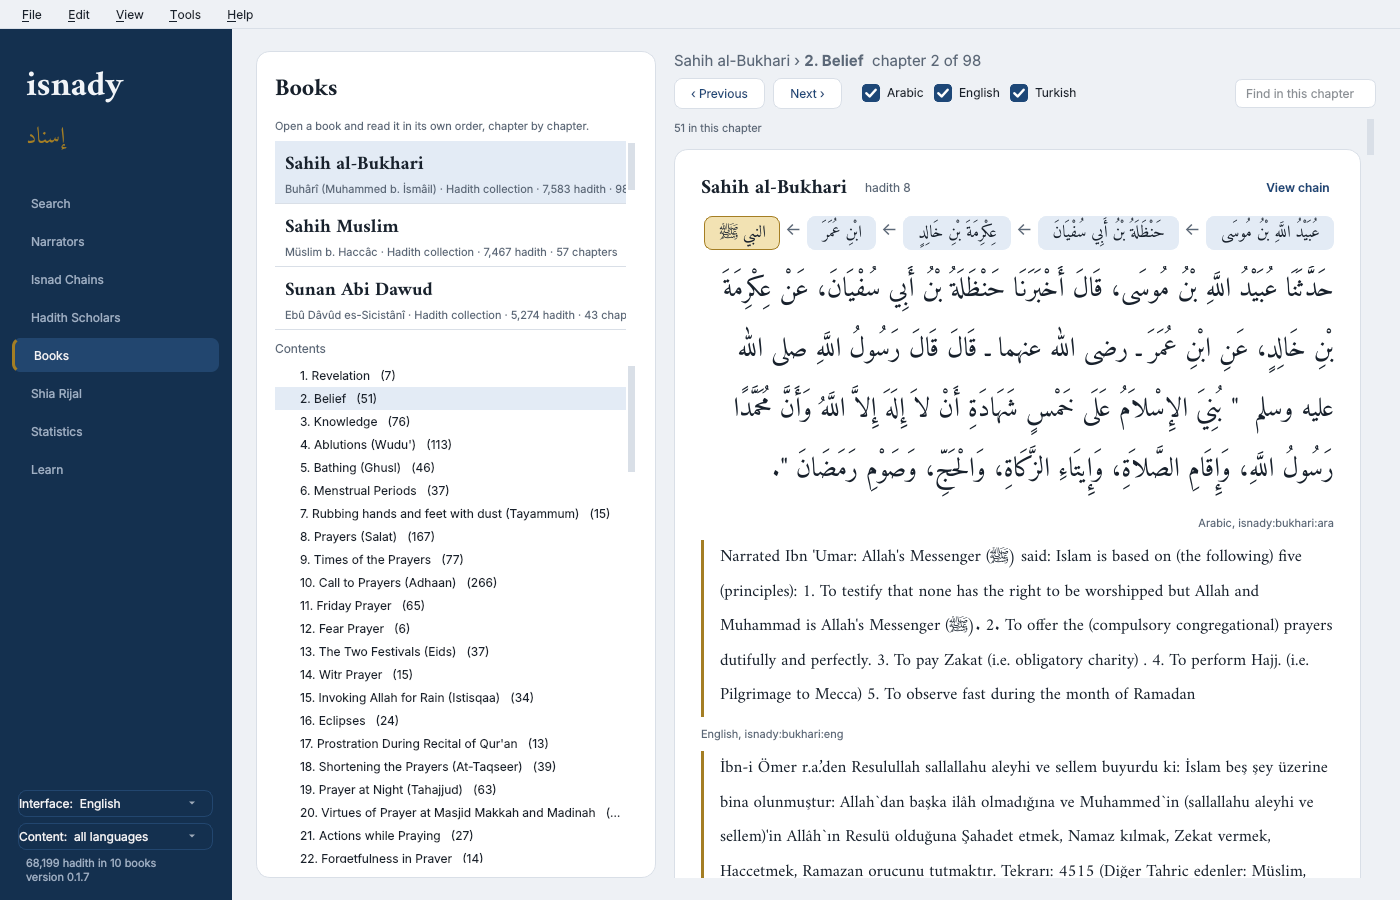
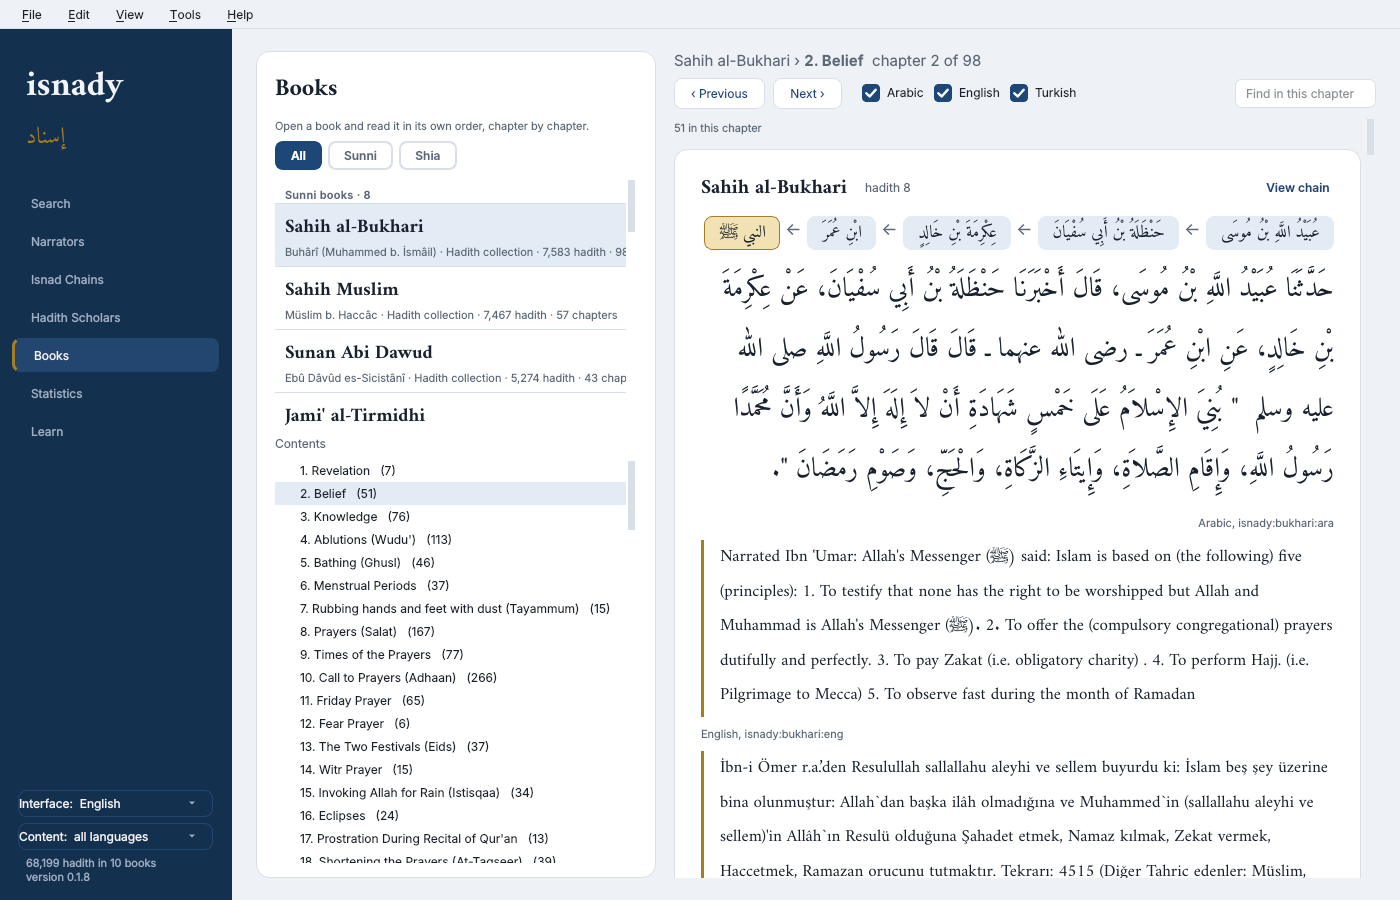
Books: the Sunni and the Shia books under their own headings, with All / Sunni / Shia
The shelf showed every book in one short list (250 px, about four books) with the Shia books last, so they sat below the fold and the shelf looked Sunni only.

core/works.list_works gives each book its tradition (a hadith collection from collections.tradition, a rijal work from the tradition of its narrators) and orders the shelf Sunni first (hadith collections in reading order, then rijal works), then Shia in the same way.

gui/books_page.py: All / Sunni / Shia above the shelf (remembered as reader.shelf), headings 'Sunni books · N' and 'Shia books · N' that cannot be chosen (the Shia one in gold), a gold Shia tag on every Shia book, a taller list (250-340 px); opening a book of the other tradition from elsewhere turns the shelf back to All.

README Books paragraph and books.png renewed; CHANGELOG [Unreleased].

Changed region(s): [[0.1843, 0.1556, 0.4607, 0.9644], [0.0307, 0.4356, 0.0614, 0.4978]]

diff --git a/src/isnady/gui/books_page.py b/src/isnady/gui/books_page.py
@@ -8,6 +8,7 @@ from PySide6.QtCore import Qt, QTimer, Signal
 from PySide6.QtWidgets import (
     QCheckBox,
     QFrame,
+    QButtonGroup,
     QHBoxLayout,
     QLabel,
     QLineEdit,
@@ -77,9 +78,27 @@ class BooksPage(QWidget):
         title.setFont(theme.reading_font(18, bold=True))
         lbox.addWidget(title)
         lbox.addWidget(_label("Open a book and read it in its own order, chapter by chapter.", "Caption"))
+        # Sunni and Shia on one shelf, each under its own heading; the switch shows one of them alone (SH1)
+        self._shelf_tradition: str | None = config.state_get("reader.shelf") or None
+        self._shelf_buttons = QButtonGroup(self)
+        seg = QHBoxLayout()
+        seg.setSpacing(6)
+        for key, text in ((None, "All"), ("sunni", "Sunni"), ("shia", "Shia")):
+            b = QPushButton(text)
+            b.setObjectName("Segment")
+            b.setCheckable(True)
+            b.setCursor(Qt.CursorShape.PointingHandCursor)
+            b.setProperty("tradition", key)
+            b.setChecked(key == self._shelf_tradition)
+            self._shelf_buttons.addButton(b)
+            seg.addWidget(b)
+        seg.addStretch(1)
+        self._shelf_buttons.buttonClicked.connect(lambda b: self.set_shelf(b.property("tradition")))
+        lbox.addLayout(seg)
         self.works = QListWidget()
         self.works.setObjectName("NarratorList")
-        self.works.setMaximumHeight(250)
+        self.works.setMinimumHeight(250)
+        self.works.setMaximumHeight(340)
         self.works.setHorizontalScrollBarPolicy(Qt.ScrollBarPolicy.ScrollBarAlwaysOff)
         self.works.currentItemChanged.connect(lambda item, _p: item and self.open_work(item.data(Qt.ItemDataRole.UserRole)))
         lbox.addWidget(self.works)
@@ -154,10 +173,25 @@ class BooksPage(QWidget):
         if conn is None:
             return
         core_works.ensure_collection_works(conn)
-        shelf = core_works.list_works(conn)
+        shelf = [w for w in core_works.list_works(conn)
+                 if self._shelf_tradition is None or w["tradition"] == self._shelf_tradition]
         self.works.blockSignals(True)
         self.works.clear()
+        heading = None
         for w in shelf:
+            if w["tradition"] != heading:
+                heading = w["tradition"]
+                head = QListWidgetItem()
+                head.setFlags(Qt.ItemFlag.NoItemFlags)          # a heading, not a book
+                text = {"sunni": "Sunni", "shia": "Shia"}.get(heading, "Other")
+                count = sum(1 for x in shelf if x["tradition"] == heading)
+                label = _label(f"{text} books · {count}", "FilterTitle", wrap=False)
+                label.setContentsMargins(10, 10, 10, 2)
+                if heading == "shia":
+                    label.setStyleSheet(f"color: {theme.current().gold};")
+                head.setSizeHint(label.sizeHint())
+                self.works.addItem(head)
+                self.works.setItemWidget(head, label)
             item = QListWidgetItem()
             item.setData(Qt.ItemDataRole.UserRole, w["key"])
             row = QWidget()
@@ -171,8 +205,10 @@ class BooksPage(QWidget):
             unit = "hadith" if w["kind"] == "hadith" else "entries"
             facts = [core_works.KIND_LABELS.get(w["kind"], "Book"), f"{w['leaves']:,} {unit}", f"{w['chapters']} chapters"]
             if author:
-                facts.insert(0, author.get("tr") or author["name"])
-            box.addWidget(_label(" · ".join(facts), "Caption", wrap=False))
+                facts.insert(0, html.escape(author.get("tr") or author["name"]))
+            if w["tradition"] == "shia":
+                facts.insert(0, f"<span style='color:{theme.current().gold}'><b>Shia</b></span>")
+            box.addWidget(_label(" · ".join(facts), "Caption", wrap=False, rich=True))
             item.setSizeHint(row.sizeHint())
             self.works.addItem(item)
             self.works.setItemWidget(item, row)
@@ -186,7 +222,22 @@ class BooksPage(QWidget):
         keys = [w["key"] for w in shelf]
         self.select_work(wanted if wanted in keys else keys[0])
 
+    def set_shelf(self, tradition: str | None) -> None:
+        """Show every book, or only the Sunni or only the Shia ones."""
+        self._shelf_tradition = tradition
+        for b in self._shelf_buttons.buttons():
+            b.setChecked(b.property("tradition") == tradition)
+        config.state_set("reader.shelf", tradition or "")
+        self.refresh()
+
     def select_work(self, key: str) -> None:
+        w = next((x for x in core_works.list_works(self.conn) if x["key"] == key), None) if self.conn else None
+        if w and self._shelf_tradition and w["tradition"] != self._shelf_tradition:
+            self._shelf_tradition = None                     # a book of the other tradition was asked for
+            for b in self._shelf_buttons.buttons():
+                b.setChecked(b.property("tradition") is None)
+            config.state_set("reader.shelf", "")
+            self.refresh()
         for i in range(self.works.count()):
             if self.works.item(i).data(Qt.ItemDataRole.UserRole) == key:
                 self.works.blockSignals(True)

diff --git a/src/isnady/core/works.py b/src/isnady/core/works.py
@@ -73,19 +73,24 @@ def ensure_collection_works(conn: sqlite3.Connection) -> int:
 
 
 def list_works(conn: sqlite3.Connection) -> list[dict]:
+    """Every book on the shelf, each with its tradition: the Sunni ones first (hadith collections in reading order,
+    then the rijal works), the Shia ones after them in the same way (SH1: one shelf, each tradition apart)."""
     rows = conn.execute(
         """SELECT w.id, w.key, w.kind, w.title, w.title_ar, w.author,
                   (SELECT COUNT(*) FROM work_nodes n WHERE n.work_id = w.id AND n.kind IN ('hadith', 'entry', 'paragraph')),
-                  (SELECT COUNT(*) FROM work_nodes n WHERE n.work_id = w.id AND n.parent_id IS NULL)
-           FROM works w ORDER BY (w.kind != 'hadith'), w.title""").fetchall()
+                  (SELECT COUNT(*) FROM work_nodes n WHERE n.work_id = w.id AND n.parent_id IS NULL),
+                  COALESCE((SELECT c.tradition FROM collections c WHERE c.id = w.collection_id),
+                           (SELECT p.tradition FROM persons p WHERE p.source_id = w.source_id LIMIT 1), 'sunni')
+           FROM works w""").fetchall()
     from isnady.core import books as core_books
 
     order = {b["key"]: i for i, b in enumerate(core_books.all_books(conn, include_inactive=True))}
     off = core_books.disabled()
     works = [{"id": r[0], "key": r[1], "kind": r[2], "title": r[3], "title_ar": r[4], "author": r[5],
-              "leaves": r[6], "chapters": r[7]} for r in rows if not (r[2] == "hadith" and r[1] in off)]
-    # hadith collections in reading order (Sunni, then Shia), the other works after them by title
-    return sorted(works, key=lambda w: (w["kind"] != "hadith", order.get(w["key"], len(order)),
+              "leaves": r[6], "chapters": r[7], "tradition": r[8] if r[8] in ("sunni", "shia") else "other"}
+             for r in rows if not (r[2] == "hadith" and r[1] in off)]
+    rank = {"sunni": 0, "shia": 1, "other": 2}
+    return sorted(works, key=lambda w: (rank[w["tradition"]], w["kind"] != "hadith", order.get(w["key"], len(order)),
                                         core_books.sort_name(w["title"] or "")))
 
 

diff --git a/README.md b/README.md
@@ -257,7 +257,9 @@ its own order. A hadith collection reads chapter by chapter, each hadith with it
 narrators, other narrations, grades) and the languages you choose; Ibn Hajar's *Taqrib* reads
 letter by letter and name by name, each entry with its narrator a click away. Find within a
 chapter, go to the previous or next one, and isnady remembers where you were. From any search
-result, **In its book** opens the hadith where it stands, among the hadith of its chapter.
+result, **In its book** opens the hadith where it stands, among the hadith of its chapter. The shelf
+holds the Sunni and the Shia books together, each under its own heading — *All*, *Sunni* or *Shia*
+at the top shows one of them alone — and every Shia book carries a gold *Shia* tag.
 
 Books are not tied to hadith collections: a work is a tree of any depth (volume, book, chapter,
 section) whose leaves are hadith, narrators' entries or paragraphs — so the commentaries, manuals

diff --git a/js/README.md b/js/README.md
@@ -271,7 +271,9 @@ its own order. A hadith collection reads chapter by chapter, each hadith with it
 narrators, other narrations, grades) and the languages you choose; Ibn Hajar's *Taqrib* reads
 letter by letter and name by name, each entry with its narrator a click away. Find within a
 chapter, go to the previous or next one, and isnady remembers where you were. From any search
-result, **In its book** opens the hadith where it stands, among the hadith of its chapter.
+result, **In its book** opens the hadith where it stands, among the hadith of its chapter. The shelf
+holds the Sunni and the Shia books together, each under its own heading — *All*, *Sunni* or *Shia*
+at the top shows one of them alone — and every Shia book carries a gold *Shia* tag.
 
 Books are not tied to hadith collections: a work is a tree of any depth (volume, book, chapter,
 section) whose leaves are hadith, narrators' entries or paragraphs — so the commentaries, manuals

diff --git a/CHANGELOG.md b/CHANGELOG.md
@@ -39,6 +39,10 @@ is taken from its section here.
 - **Search results in the order of the books**: Sahih al-Bukhari, Sahih Muslim, Sunan Abi Dawud … then the Shia
   books, as the book lists show them — they came by title, so al-Kafi and 'Uyun Akhbar al-Rida stood before
   Sahih al-Bukhari. The same order for a narrator's hadith, `iy isnads` and `iy stats` (`books.order_sql`).
+- **Books: the Shia books on the shelf in plain sight.** The shelf showed every book in one short list, Shia ones
+  last, so they sat below the fold. Now the Sunni and the Shia books (hadith collections, then rijal works) stand
+  under their own headings, *All / Sunni / Shia* at the top shows one of them alone (remembered), every Shia book
+  carries a gold *Shia* tag, and the list is taller. `works.list_works` gives each book its tradition.
 
 ## [0.1.8] — 2026-10-10
 
